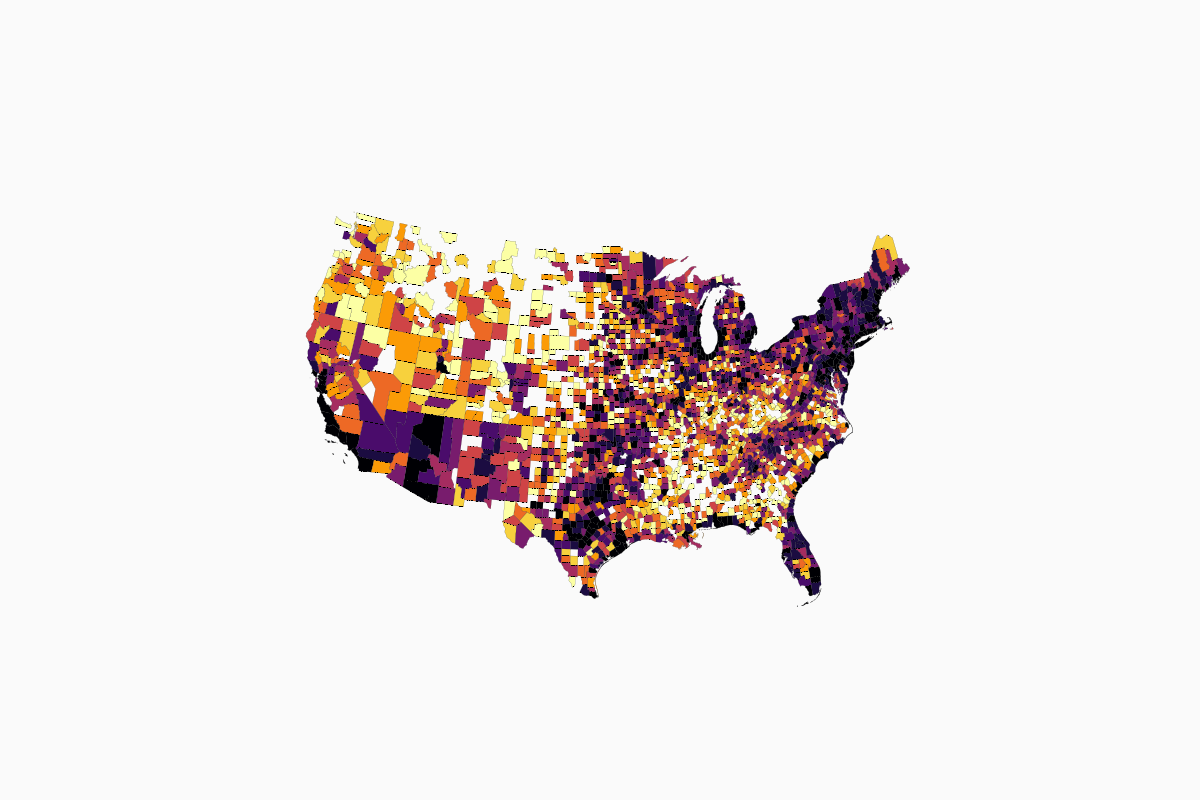
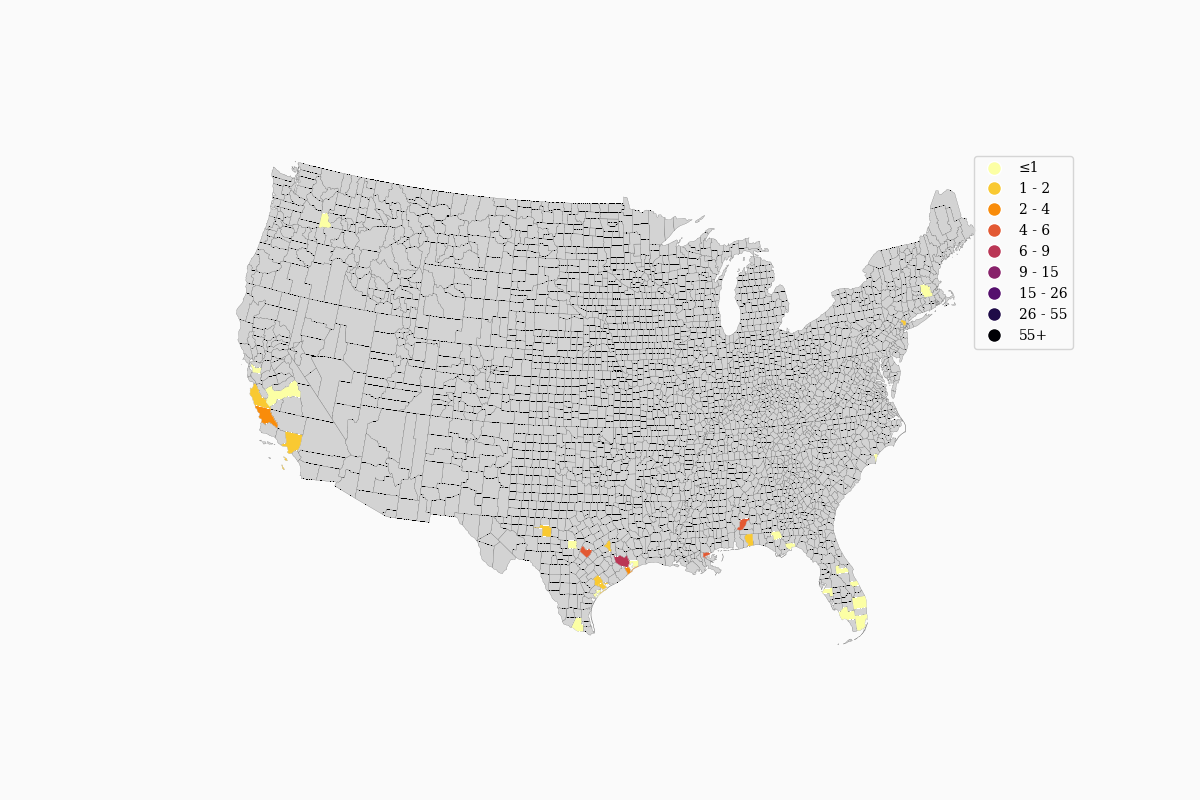
milkweed and charts

Changed region(s): [[0.185, 0.1875, 0.8942, 0.8125]]

diff --git a/scrapers/JourneyNorth_Milkweed.js b/scrapers/JourneyNorth_Milkweed.js
@@ -15,7 +15,7 @@ const END_SEASON = 1;
 
 const US_STATES_CODES = ["AL", "AK", "AZ", "AR", "CA", "CO", "CT", "DE", "FL", "GA", "HI", "ID", "IL", "IN", "IA", "KS", "KY", "LA", "ME", "MD", "MA", "MI", "MN", "MS", "MO", "MT", "NE", "NV", "NH", "NJ", "NM", "NY", "NC", "ND", "OH", "OK", "OR", "PA", "RI", "SC", "SD", "TN", "TX", "UT", "VT", "VA", "WA", "WV", "WI", "WY"];
 
-const MONARCH_TYPE_NAME = 'egg';
+const MONARCH_TYPE_NAME = 'milkweed';
 const SQLITE_PATH = `journeynorth_${MONARCH_TYPE_NAME}.db`;
 
 function seasonIntToStr(seasonInt) {
@@ -24,7 +24,7 @@ function seasonIntToStr(seasonInt) {
 
 async function query(year, seasonInt) {
     const seasonStr = seasonIntToStr(seasonInt);
-    const url = `https://journeynorth.org/sightings/querylist.html?map=monarch-${MONARCH_TYPE_NAME}-${seasonStr}&year=${year}&season=${seasonStr}`;
+    const url = `https://journeynorth.org/sightings/querylist.html?map=${MONARCH_TYPE_NAME}-${seasonStr}&year=${year}&season=${seasonStr}`;
 
     const responseHTML = (await axios.get(url)).data;
     // console.log(responseHTML);
@@ -46,13 +46,14 @@ async function query(year, seasonInt) {
 
         const lat = parseFloat($($tds[4]).text().trim());
         const lng = parseFloat($($tds[5]).text().trim());
-        const qty = parseInt($($tds[6]).text().trim());
+        const qtyRawStr = $($tds[6]).text().trim();
+        const qty = qtyRawStr.length ? parseInt(qtyRawStr) : 1;
 
         let county, countyFIPS;
         try {
             const _c = await locToCounty(lat, lng);
             county = _c.county_name;
-            countyFIPS = parseInt(_c.county_fips, 10);
+            countyFIPS = parseInt(_c.county_fips,10);
         } catch {
             // console.log(town);
         }

diff --git a/vis/sightings_maps_spring_and_fall.py b/vis/sightings_maps_spring_and_fall.py
@@ -53,16 +53,22 @@ geoData.id = geoData["id"].astype(int)
 # Remove Alaska, Hawaii and Puerto Rico.
 statesToRemove = ["02", "15", "72"]
 geoData = geoData[~geoData.STATE.isin(statesToRemove)]
+extent = geoData.total_bounds
 print(geoData)
-# Basic plot with just county outlines
-# gplt.polyplot(geoData, projection=gcrs.AlbersEqualArea())
 
-fullData = df.groupby(["countyFIPS"])["qty"].sum()
+fullData = (
+    df_no_outliers.groupby(
+        [df_no_outliers["date"].map(lambda x: x.year), "countyFIPS"]
+    )["qty"]
+    .sum()
+    .reset_index()
+)
 fullData = geoData.merge(
     fullData,
     left_on=["id"],  # identifier from geodataframe
     right_on=["countyFIPS"],  # identifier from dataframe
 )
+print(fullData)
 
 # for color mapping with 10 different colors
 import mapclassify as mc
@@ -70,17 +76,42 @@ import mapclassify as mc
 scheme = mc.Quantiles(fullData["qty"], k=10)
 
 for y in range(1996, 2025):
-    df_this_year = df[(df["date"].dt.year == y)]
+    df_this_year = fullData[(fullData["date"] == y)]
+
+    # Basic plot with just county outlines
+    ax = gplt.polyplot(
+        geoData,
+        linewidth=0.1,
+        facecolor="lightgray",
+        projection=gcrs.AlbersEqualArea(),
+        figsize=(12, 8),
+        extent=extent,
+    )
 
     gplt.choropleth(
-        fullData,
+        df_this_year,
         projection=gcrs.AlbersEqualArea(),
         hue="qty",
         scheme=scheme,
         cmap="inferno_r",
         linewidth=0.1,
-        edgecolor="black",
-        figsize=(12, 8),
+        edgecolor="white",
+        legend=True,
+        ax=ax,
+        extent=extent,
+    )
+    ax.set_axis_off()
+    legend = ax.get_legend()
+
+    legend.texts[0].set_text(
+        "≤"
+        + legend.texts[0].get_text()[
+            legend.texts[-1].get_text().index("-") + 1 :
+        ]  # hides the 0 value
+    )
+    legend.texts[-1].set_text(
+        legend.texts[-1].get_text()[: legend.texts[-1].get_text().index(" -")]
+        + "+"  # hides the maximum value
     )
 
     # plt.colorbar()

diff --git a/scrapers/census.py b/scrapers/census.py
@@ -1,0 +1,34 @@
+import censusdata
+import pandas as pd
+
+# Specify the years you want to retrieve data for
+years = range(2000, 2025)  # Example: 2000 to 2020
+
+# Prepare an empty DataFrame to store all data
+all_data = pd.DataFrame()
+
+# Loop through each year to get population estimates
+for year in years:
+    # Retrieve population data for all counties
+    data = censusdata.download(
+        "pep",
+        censusdata.censusgeo([("county", "*"), ("state", "*")]),
+        [censusdata.censusvar("sf1", year, "B01003_001E")],
+        year=year,
+    )
+
+    # Reset the index and add the year column
+    data.reset_index(inplace=True)
+    data["YEAR"] = year
+
+    # Append to the all_data DataFrame
+    all_data = pd.concat([all_data, data], ignore_index=True)
+
+# Rename columns for clarity
+all_data.columns = ["STATE", "COUNTY", "POPULATION", "YEAR"]
+
+# Display the DataFrame
+print(all_data)
+
+# Optionally, save to CSV
+all_data.to_csv("scrapers/CensusBureau/population_estimates_by_county.csv", index=False)
